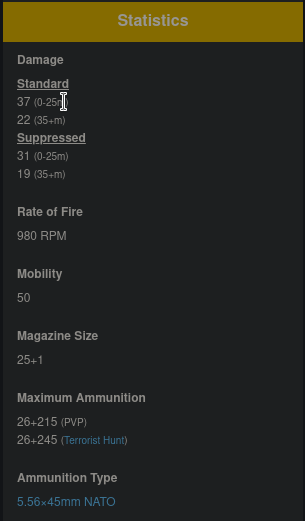
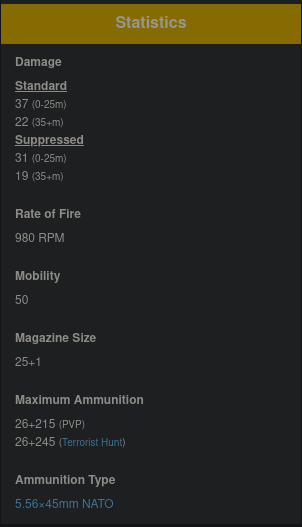
added comparison

diff --git a/index.html b/index.html
@@ -26,12 +26,16 @@
 	  		<div class="column2" style="background-color:#aaa;">
 	    		<h2>Unparrelled</h2>
 	    		<p>Many guns have the same stat line as the F2 as it has great damage but also an extremely high fire rate and next to no recoil.</p>
-	    		<iframe src="https://giphy.com/embed/lQCV6K36nJfJYNxXbC" width="480" height="405" frameBorder="0" class="giphy-embed" allowFullScreen></iframe><p><a href="https://giphy.com/gifs/maid-regret-hit-the-wall-lQCV6K36nJfJYNxXbC">via GIPHY</a></p>
+	    		<iframe src="https://giphy.com/embed/lQCV6K36nJfJYNxXbC" width="480" height="405" frameBorder="0" class="giphy-embed" allowFullScreen></iframe><p><a href="https://giphy.com/gifs/maid-regret-hit-the-wall-lQCV6K36nJfJYNxXbC"><alt>Frustrated</alt></a></p>
 	  		</div>
 	  	<div class="column2" style="background-color:#bbb;">
 	    		<h2>F2 Statistics</h2>
 	    		<picture>
-				  <img src="f2data.png" alt="F2 data" style="width:auto;">
+				  <img src="f2data.png" alt="F2 Data" style="width:auto;">
+				</picture>
+				<p>Versus another popular weapon the UMP45</p>
+				<picture>
+					<img src="umpdata.png" alt="UMP45 Data" style="width:auto;">
 				</picture>
 	  		</div>
 		</div>
